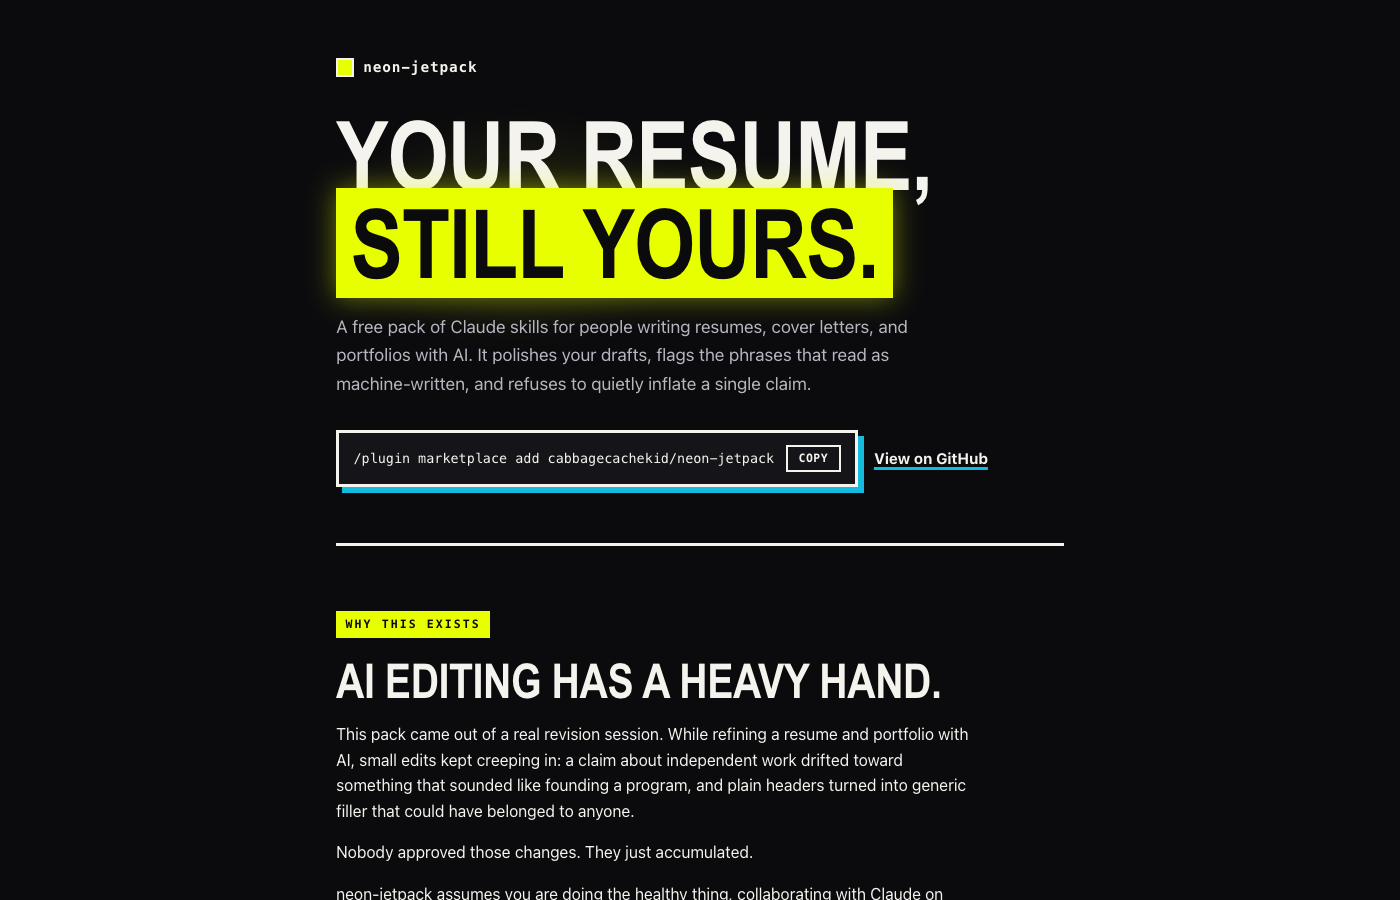
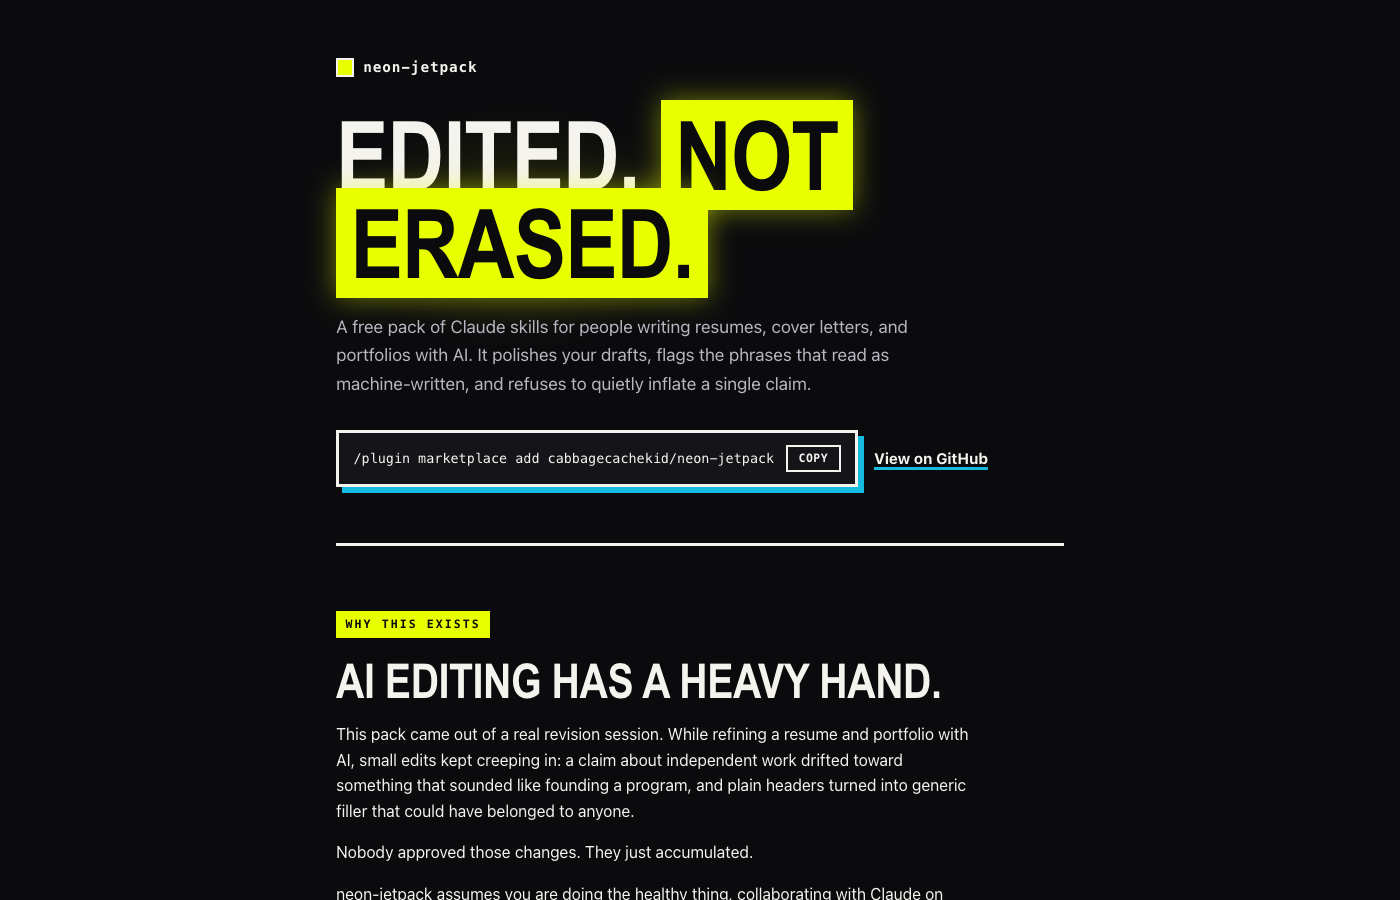
Tighten hero + workflows headlines
- Hero: "Your resume, still yours." -> "Edited, not erased." (the acid
  highlighter now lands on "not erased" — your words stay, just lit up)
- Workflows: "Say one sentence. The team runs the chain." ->
  "Say the word. The crew runs the chain."
- Keeps "AI editing has a heavy hand." and all other headlines
- Regenerates docs/preview.png

Changed region(s): [[0.2457, 0.0933, 0.6757, 0.3422]]

diff --git a/docs/index.html b/docs/index.html
@@ -235,7 +235,7 @@
   <!-- HERO -->
   <header class="hero">
     <p class="wordmark rise">neon-jetpack</p>
-    <h1 class="rise d2">Your resume, <mark>still yours.</mark></h1>
+    <h1 class="rise d2">Edited, <mark>not erased.</mark></h1>
     <p class="lede rise d3">A free pack of Claude skills for people writing resumes, cover letters, and portfolios with AI. It polishes your drafts, flags the phrases that read as machine-written, and refuses to quietly inflate a single claim.</p>
     <div class="hero-cta rise d3">
       <div class="cmd">
@@ -258,7 +258,7 @@
   <!-- WORKFLOWS (centerpiece) -->
   <section id="workflows">
     <p class="eyebrow">Agentic workflows</p>
-    <h2>Say one sentence. The team runs the chain.</h2>
+    <h2>Say the word. The crew runs the chain.</h2>
     <p class="lede">These are not one-shot prompts. A dispatcher skill routes your request to the right specialists, in the right order, with a sign-off gate before anything changes.</p>
     <article class="flow">
       <h3>Ship a cover letter</h3>
